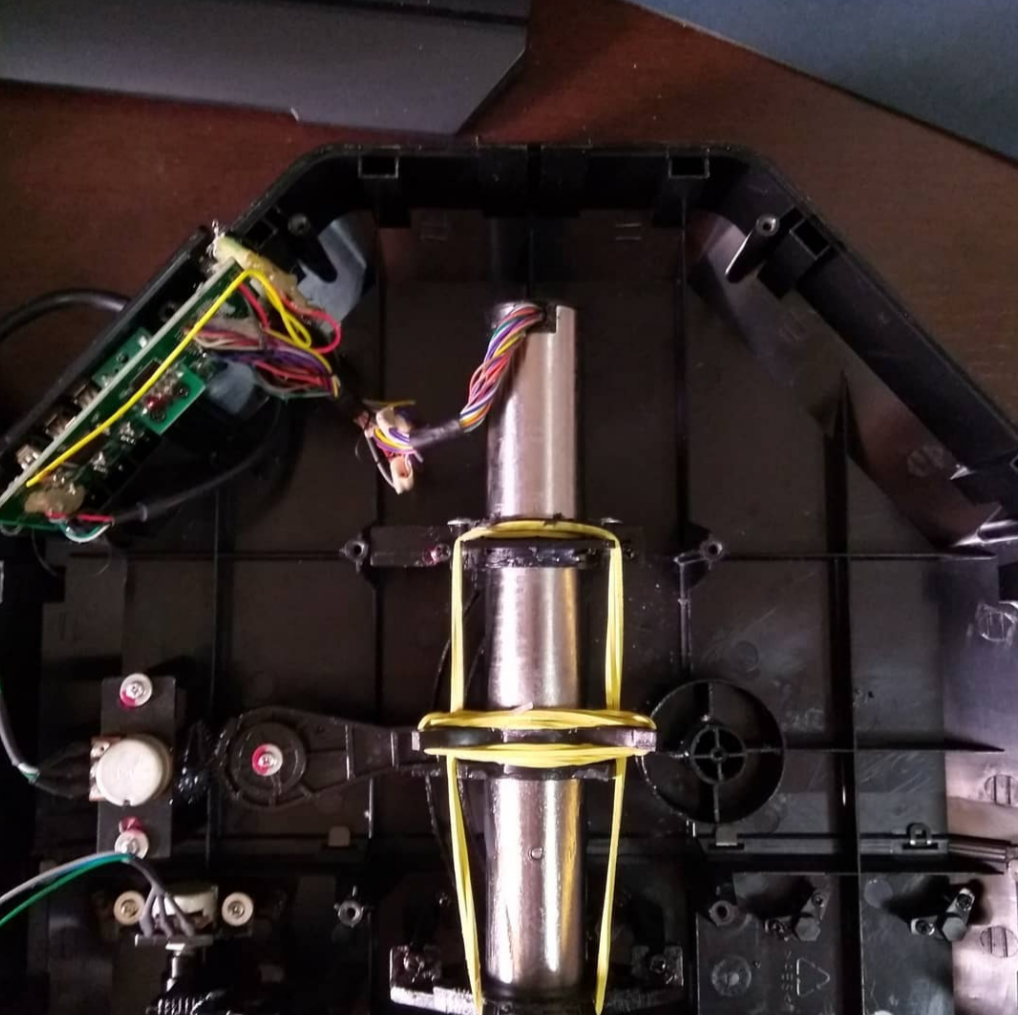
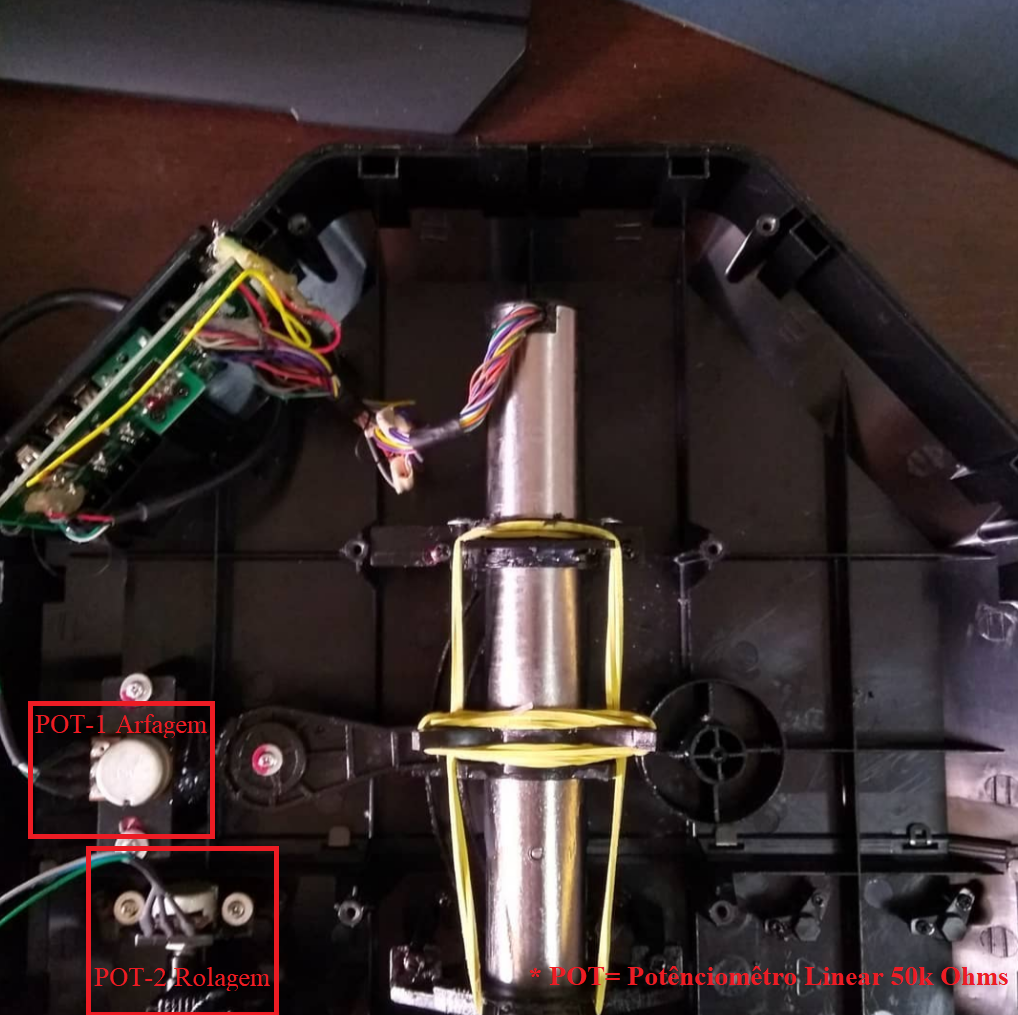
joystick_post

Changed region(s): [[0.0305, 0.6719, 0.2741, 1.0], [0.5177, 0.9468, 1.0, 0.9773], [0.0305, 0.7941, 0.0609, 0.8246]]

diff --git a/_posts/2019-05-22-DIY-Joystick.md b/_posts/2019-05-22-DIY-Joystick.md
@@ -1,0 +1,56 @@
+---
+title: Modificação em Joystick
+description: Aumentando a precisão de um joystick para simular voos em simuladores de voo
+author: Guilherme Aguiar Brum
+date: 2019-05-22 09:33:00 +0800
+categories: [Projetos Caseiros]
+tags: [DIY]
+pin: true
+math: true
+mermaid: true
+image:
+  path: https://www.leobodnar.com/shop/images/2BU0836A.jpg
+  alt: Placa HUD USB da leobodnar modeleo BU0836A
+
+---
+
+Como um bom apreciador de simuladores de voo que sou, zelo bastante pelo realismo e imersão dentro dos simuladores de voo. De forma a aumentar a precisão e sensação de realismo ao pilotar um aeronave no computador, decidi por adquirir um SAITEK Pro Flight Yoke ![Desktop View](https://www.logitechstore.com.br/media/catalog/product/cache/105e6f420716e0751863c4b81f527d17/s/a/saitek_flight_yoke_system_5_.png){: .right }{: width="300" height="300" }. Percebi que o mecanismo interno do Joystick era composto por molas, de modo que ao soltar os comandos a força elástica das molas fazia com que os comandos voltassem para o centro. No entanto acho bastante bruto esse movimento e pouco realista. Visando buscar uma maior fluidez nos comando, encontrei em fóruns gringos uma modificação para esse Joystick da saitek. Consiste em remover as molas, e substituir por elásticos, aqueles que usamos para prender folhas, ou coisas do dia-dia. Não satisfeito na modificação, decidi mudar a resolução dos comandos. Basicamente um joystick funciona da seguinte maneira.
+
+
+Um potenciômetro é acoplado aos eixos do controle para capturar os movimentos de empurrar o joystick (arfagem da aeronave) e girar o joystick (rolagem da aeronave). Dessa maneira ao variar o cursor do Joystick o potenciômetro varia sua resistência interna e através de um conversor analógico digital(ADC) transforma essa variação de resistência elétrica em tensão que é lido pela placa do Joystick. Quanto maior a resolução do ADC maior a precisão de movimento terá o joystick.
+
+Por exemplo, um  joystick que possui uma placa com ADC de 10 bits possui $ 2^{10} =1024$ passos de resolução, enquanto que $ 2^{12}=4096$ passos. Ou seja ele captura pequenos movimentos no eixo do joystick tornando-o mais preciso nos controles.
+O esquema de ligação dos potenciômetros na placa é de certo modo bastante simples , basta observar a imagem que é bastante institutiva . Temos três pinos na saída do potênciomêtro:
+
+![Desktop View](https://www.leobodnar.com/shop/images/2BU0836A_06.jpg){: .right }{: width="300" height="300" }
+
+1-	GND
+
+2-	Sinal
+
+3-	Positivo
+
+
+
+
+Devemos ligá-los nos terminais da placa Leobodnar conforme imagem. Após isso basta ligar o joystick na entrada usb do seu pc por uma cabo USB A to B, usado em impressoras antigas, comumente encontrado em lojas de TI. O cabo USB fornecerá a alimentação 5V para placa e fará a comunicação entre os potenciômetros e o PC.
+
+![Desktop View](assets/img/joystick1.png){: width="500" height="500" }_Esquema de ligação dos potenciômetros na placa_
+
+
+![Desktop View](assets/img/joystick2.png){: width="500" height="500" }_Identificação dos potênciômetros no Joystick_
+
+
+
+A seguir deixo o video exemplificando os processos descritos acima, e o movimento de controle do  Joystick.
+
+{%
+  include embed/video.html
+  src='/assets/img/screen-20250906-130637.mp4'
+  types='mp4'
+  poster='/assets/img/joystick2.png'
+  title='Funcionamento e mecanismo de movimentação do Joystick com a placa 2BU0836A '
+  autoplay=true
+  loop=true
+  muted=true
+%}
